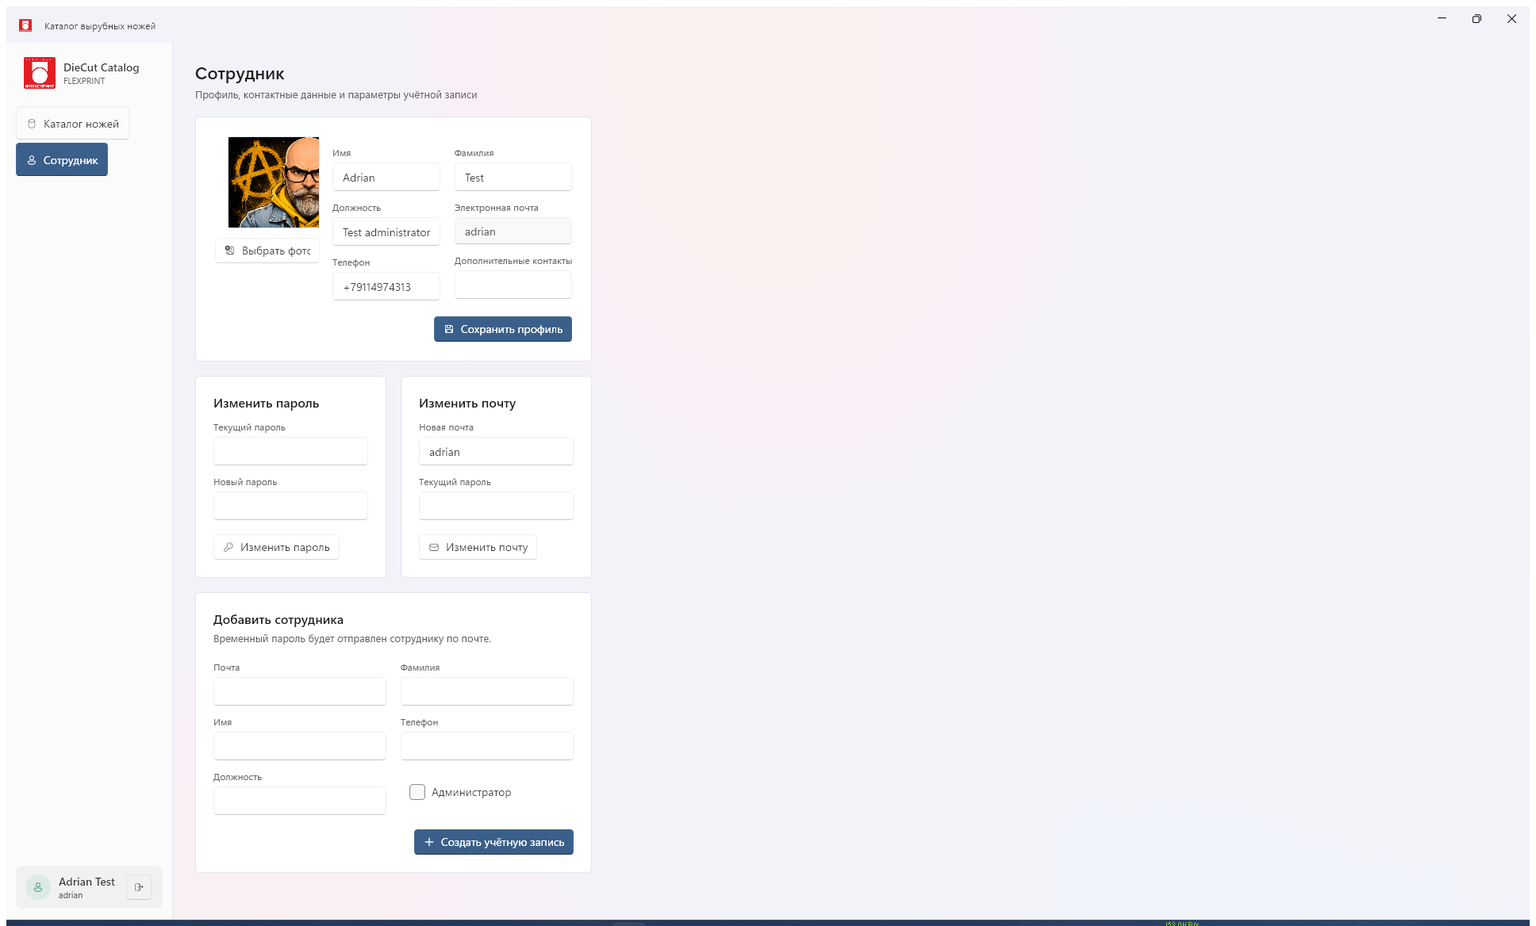
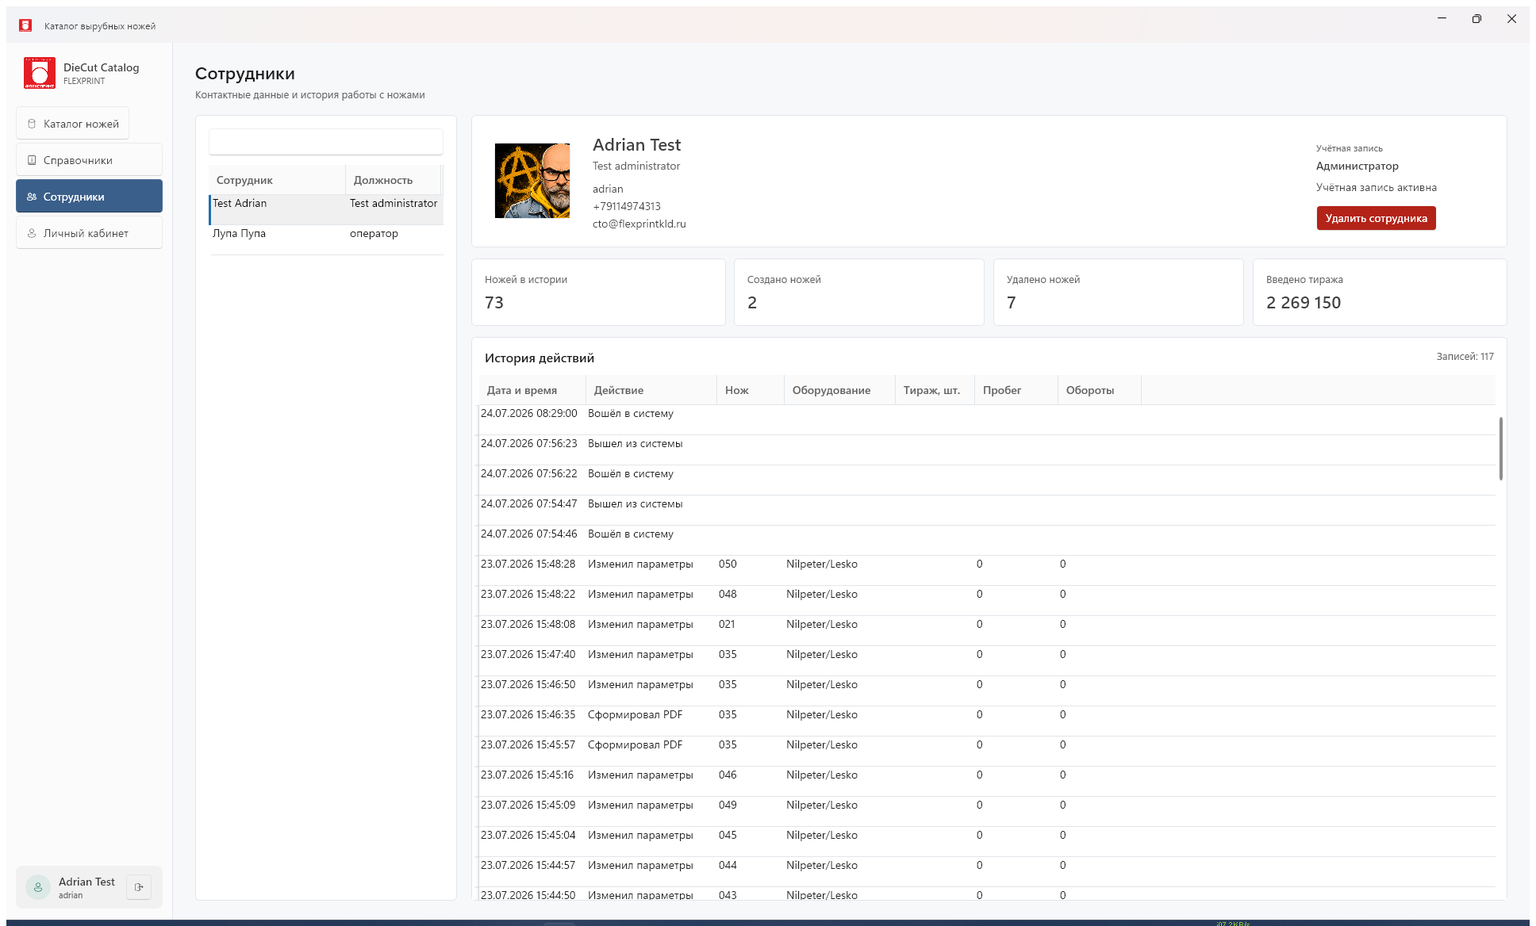
Refresh project documentation and screenshots

diff --git a/README.md b/README.md
@@ -1,51 +1,119 @@
 # DieCut Catalog
 
-Сетевая система хранения, поиска и учета вырубных ножей. Windows-клиент работает с центральным Linux-сервером; сервер хранит данные в PostgreSQL и управляет PDF-чертежами.
+**DieCut Catalog** — сетевая система FLEXPRINT для хранения, поиска и производственного учёта вырубных ножей. Windows-клиенты работают с единым API на Ubuntu-сервере; PostgreSQL хранит карточки, сотрудников и историю событий, а PDF-чертежи находятся в управляемом серверном хранилище.
 
-## Цели проекта
+![Каталог DieCut Catalog](docs/images/catalog.png)
 
-- единый каталог ножей с поиском и фильтрацией по техническим параметрам;
-- карточка ножа с чертежом, PDF, статусом и историей изменений;
-- учет тиражей и фактической нагрузки каждого ножа;
-- создание нового ножа с интерактивным чертежом и генерацией PDF;
-- загрузка существующего PDF, извлечение параметров и подтверждение импорта;
-- разграничение прав, аудит действий и резервное копирование;
-- импорт действующего Excel-каталога и обратный экспорт в Excel.
+## Что умеет система
+
+- каталог ножей с вкладками по оборудованию, поиском и фильтрами;
+- карточка ножа с техническими параметрами, статусом, заказом JC и комментарием;
+- статусы **OK**, **Требует проверки**, **Списан**, **Заказать новый** с цветовой индикацией;
+- учёт тиража в штуках, погонных метрах и целых оборотах;
+- автоматический перевод ножа в статус **Требует проверки** при достижении заданного ресурса;
+- импорт действующего Excel-каталога с нормализацией legacy-названий оборудования;
+- создание, загрузка, скачивание и хранение версий PDF-чертежей;
+- предварительное распознавание параметров при импорте PDF;
+- справочники материалов, фигур и оборудования;
+- личный кабинет и справочник сотрудников с историей действий;
+- общий журнал с экспортом в CSV и PDF;
+- разграничение прав и подтверждение опасных операций паролем администратора;
+- аудит успешных входов и штатных выходов клиентов.
+
+## Интерфейс
+
+### Каталог и карточка ножа
+
+Таблица показывает только поля, необходимые для ежедневной работы: номер, статус, вал, L, B, ручьи, этикетки в ручье, A1, A2, материал, ширину материала, фигуру, дату, оборудование, заказ JC, обороты и комментарий. Выбор строки открывает подробную карточку справа.
+
+![Карточка ножа](docs/images/knife-card.png)
+
+Оборудование выбирается из справочника. Базовый набор: **Nilpeter/Lesko**, **MarkAndy**, **Big Lesko**, **Label Source**. Поддерживаются фигуры: прямоугольник, круг, квадрат, специальная форма и перфорация.
+
+### Справочники и журнал
+
+Администратор может дополнять и корректировать материалы, фигуры и оборудование. Общий журнал содержит действия с ножами, тиражами, PDF, а также входы и выходы сотрудников. Журнал доступен для поиска и экспорта.
+
+![Справочники и журнал](docs/images/references.png)
+
+### Сотрудники
+
+Личный кабинет хранит фотографию, контакты, должность, электронную почту и параметры учётной записи. В справочнике сотрудников отображается история работы: создание и изменение ножей, ввод тиражей, формирование PDF, удаление, вход и выход из системы.
+
+![Справочник сотрудников](docs/images/employee.png)
+
+## Учёт тиража и ресурса
+
+Пользователь вводит только тираж этикеток в штуках. Остальные значения рассчитываются и накапливаются автоматически.
+
+```text
+Пробег, м =
+  тираж / количество ручьёв
+  × (длина этикетки B, мм + horizontal break, мм)
+  / 1000
+
+Раппорт, м = вал × 3,175 / 1000
+
+Обороты = округление вверх(пробег / раппорт)
+```
+
+Обороты всегда сохраняются целым числом. Каждая операция содержит дату, сотрудника, тираж и значения до/после. Сброс ресурса выполняется только после установки нового ножа.
+
+## PDF-чертежи
+
+Генератор создаёт векторный PDF в масштабе 1:1 по параметрам карточки:
+
+- контур этикетки соответствует размерам L × B;
+- учитываются ручьи, этикетки в ручье, раппорт и ширина материала;
+- применяются радиус скругления и межэтикеточные расстояния;
+- выводятся **Corner radius**, **vertical break** и **horizontal break**;
+- каждая версия сохраняется отдельно и регистрируется в журнале.
+
+Можно прикрепить существующий PDF или импортировать схему для предварительного извлечения параметров. Распознанные данные всегда подтверждаются пользователем перед созданием ножа.
+
+## Безопасность и аудит
+
+- клиент не подключается напрямую к PostgreSQL или папке PDF;
+- все операции проходят через HTTPS API с серверной валидацией;
+- сервер хранит хеши паролей, а не исходные пароли;
+- временный пароль нового сотрудника генерируется сервером и отправляется через SMTP;
+- удаление ножа или сотрудника, списание и сброс ресурса требуют пароль администратора в **Danger Zone**;
+- успешный вход и штатный выход клиента сохраняются в базе и видны в журналах;
+- API ограничивает частоту попыток авторизации.
+
+> При аварийном отключении питания или сети точное время выхода определить невозможно. Оно фиксируется при штатном выходе или закрытии клиента.
 
 ## Архитектура
 
 ```text
-Windows-клиент (WPF)
+Windows-клиент WPF
         |
-     HTTPS API
+      HTTPS
         |
-Linux Server
-  |-- ASP.NET Core API
-  |-- PostgreSQL
-  +-- PDF-хранилище
+Caddy на Ubuntu
+        |
+ASP.NET Core API
+   |             |
+PostgreSQL   PDF-хранилище
 ```
 
-Клиенты не подключаются к PostgreSQL или общей папке напрямую. Все операции проходят через API, чтобы сервер мог проверять права, целостность данных и вести журнал изменений. PDF хранятся как файлы, а в базе находятся их метаданные, контрольные суммы и связи с ножами.
-
-Подробности: [архитектура](docs/architecture.md) и [план MVP](docs/mvp.md).
-
-## Технологии
-
-- .NET 8, ASP.NET Core;
-- Windows desktop-клиент: WPF;
-- PostgreSQL;
-- Docker Compose для Debian/Ubuntu;
-- управляемое файловое хранилище PDF.
+- **.NET 8 / ASP.NET Core** — API и бизнес-логика;
+- **WPF + WPF UI** — Windows 10/11 клиент;
+- **PostgreSQL 16** — каталог, сотрудники, события и метаданные;
+- **Docker Compose** — развёртывание сервера;
+- **Caddy** — HTTPS и reverse proxy;
+- **PDFsharp / PdfPig / ClosedXML** — PDF и Excel.
 
 ## Структура решения
 
-- `DieCutCatalog.Api` — HTTP API и точка запуска сервера;
-- `DieCutCatalog.Domain` — бизнес-модель и правила учета;
-- `DieCutCatalog.Application` — сценарии приложения и контракты;
-- `DieCutCatalog.Infrastructure` — PostgreSQL, файлы, PDF и внешние интеграции;
-- `DieCutCatalog.Desktop` — Windows-клиент.
+- `DieCutCatalog.Api` — HTTP API и серверные endpoints;
+- `DieCutCatalog.Domain` — бизнес-модель и правила учёта;
+- `DieCutCatalog.Application` — контракты и сценарии приложения;
+- `DieCutCatalog.Infrastructure` — PostgreSQL, Excel, PDF, SMTP и файлы;
+- `DieCutCatalog.Desktop` — Windows-клиент;
+- `tests/DieCutCatalog.Infrastructure.Tests` — интеграционные тесты бизнес-логики.
 
-## Локальный запуск
+## Быстрый запуск для разработки
 
 Требуются .NET 8 SDK и Docker.
 
@@ -55,48 +123,39 @@ dotnet restore
 dotnet run --project src/DieCutCatalog.Api
 ```
 
-API после запуска: `http://localhost:5080`. Проверка состояния: `GET /health`.
+API: `http://localhost:5080`. Проверка состояния: `GET /health`.
 
-Настройки для рабочей среды и пароли не должны попадать в Git. Для production-развертывания используется `compose.production.yaml`, а секреты передаются через серверный файл `.env`.
+Запуск клиента:
 
-## Production-развертывание
+```powershell
+dotnet run --project src/DieCutCatalog.Desktop
+```
 
-На Debian/Ubuntu сервере:
+Автономная Windows-сборка:
+
+```powershell
+dotnet publish src/DieCutCatalog.Desktop -c Release -r win-x64 `
+  --self-contained true -p:PublishSingleFile=true -o artifacts/client
+```
+
+## Production
+
+Сервер разворачивается на Ubuntu через `compose.production.yaml`. Секреты передаются через серверный `.env` и не должны попадать в Git.
 
 ```bash
 cp .env.example .env
-# Заменить POSTGRES_PASSWORD на случайный пароль.
 docker-compose -f compose.production.yaml up -d --build
 curl http://127.0.0.1:5080/health
 ```
 
-API привязан к loopback-интерфейсу сервера. Внешний доступ должен публиковаться только через HTTPS reverse proxy. PostgreSQL доступен исключительно внутри Docker-сети.
+API должен слушать только loopback-интерфейс и публиковаться наружу через HTTPS reverse proxy. Текущий тестовый адрес: [https://diecutcatalog.duckdns.org](https://diecutcatalog.duckdns.org).
 
-Текущее production-подключение: https://diecutcatalog.duckdns.org. HTTPS обслуживает Caddy, API остаётся доступен только через 127.0.0.1:5080.
+## Документация
 
-## Учётные записи сотрудников
+- [Полная инструкция по установке и эксплуатации](docs/installation-and-user-guide.md)
+- [Архитектура](docs/architecture.md)
+- [План MVP](docs/mvp.md)
 
-Администратор создаёт сотрудника по электронной почте. Сервер генерирует стойкий временный пароль, сохраняет только его хеш и отправляет пароль через SMTP. При первом входе любые изменения, кроме смены временного пароля, блокируются.
+## Текущее состояние
 
-После входа сотрудник может:
-
-- изменить имя, должность, телефон и дополнительные контакты;
-- загрузить фотографию JPEG, PNG или WebP размером до 5 МБ;
-- изменить пароль с подтверждением текущего;
-- изменить адрес электронной почты с подтверждением текущего пароля.
-
-Первый администратор создаётся однократно через `POST /api/setup/administrator` с заголовком `X-Setup-Token`. После создания первой учётной записи этот endpoint автоматически перестаёт работать. Для отправки приглашений обязательны `SMTP_*` параметры из `.env.example`.
-
-## PDF-чертежи
-
-В карточке сохранённого ножа доступен блок «Чертёж»:
-
-- «Создать PDF» строит векторную раскладку по ширине и длине этикетки, раппорту вала, ручьям, повторам, межэтикеточным расстояниям и радиусу;
-- «Загрузить» прикрепляет исходную схему к существующему ножу;
-- «Открыть» скачивает и открывает последнюю версию документа;
-- «Импорт PDF» создаёт новую карточку, распознаёт текст и повторяющиеся векторные контуры, затем требует проверки данных перед сохранением.
-
-Каждая загруженная или созданная версия хранится отдельным файлом. В PostgreSQL записываются исходное имя, размер, источник, SHA-256, дата и связь с ножом. Допускаются только PDF до 20 МБ; тип файла проверяется по сигнатуре.
-## Статус
-
-Рабочая версия включает сетевую авторизацию, каталог и карточки ножей, Excel-импорт, учёт тиражей/пробега/оборотов, журнал операций, PDF-хранилище, параметрическую генерацию схем и предварительное распознавание PDF.
+Рабочая сетевая версия включает авторизацию, каталог и карточки ножей, Excel/PDF-импорт, справочники, сотрудников, учёт тиража и ресурса, аудит действий и сессий, PDF-хранилище и параметрическую генерацию схем. Изменения проверяются автоматическими тестами и развёрнуты на тестовом Ubuntu-сервере.
